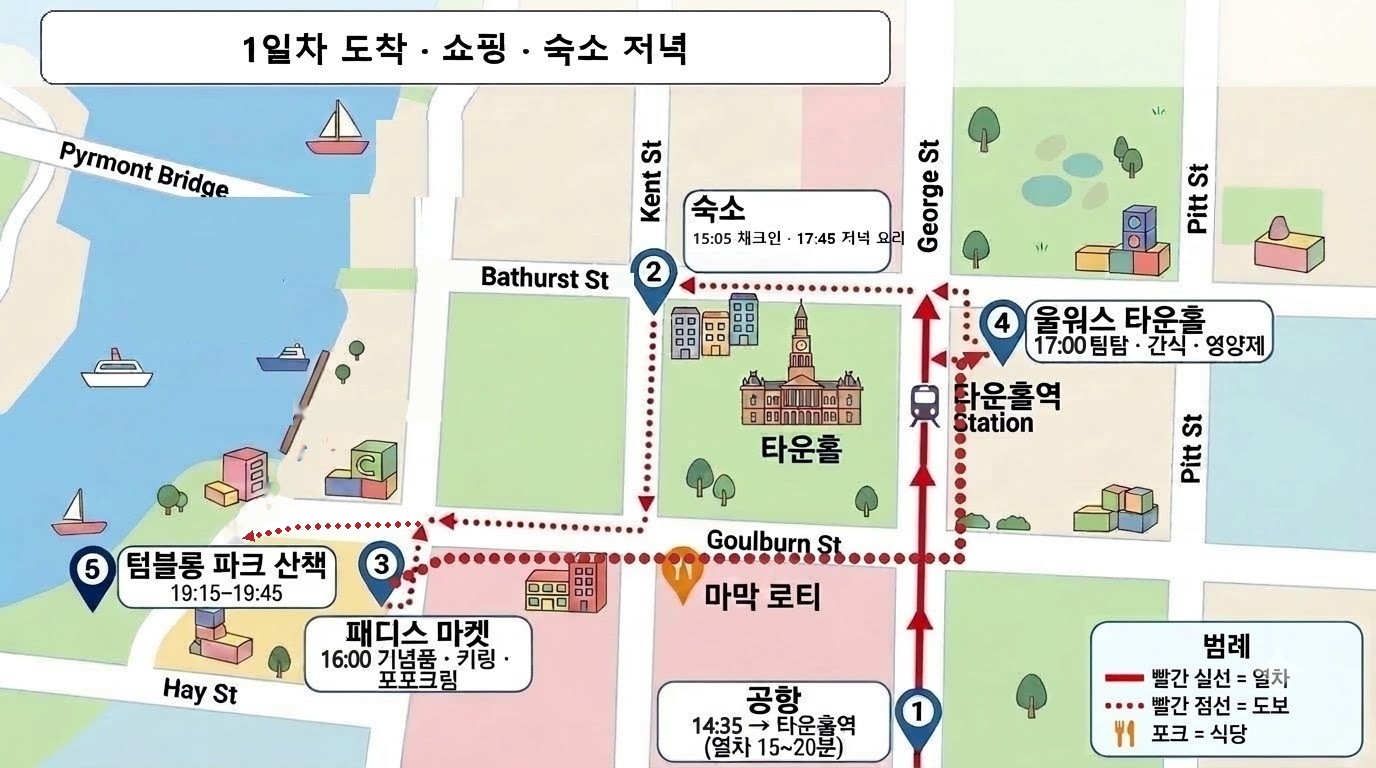
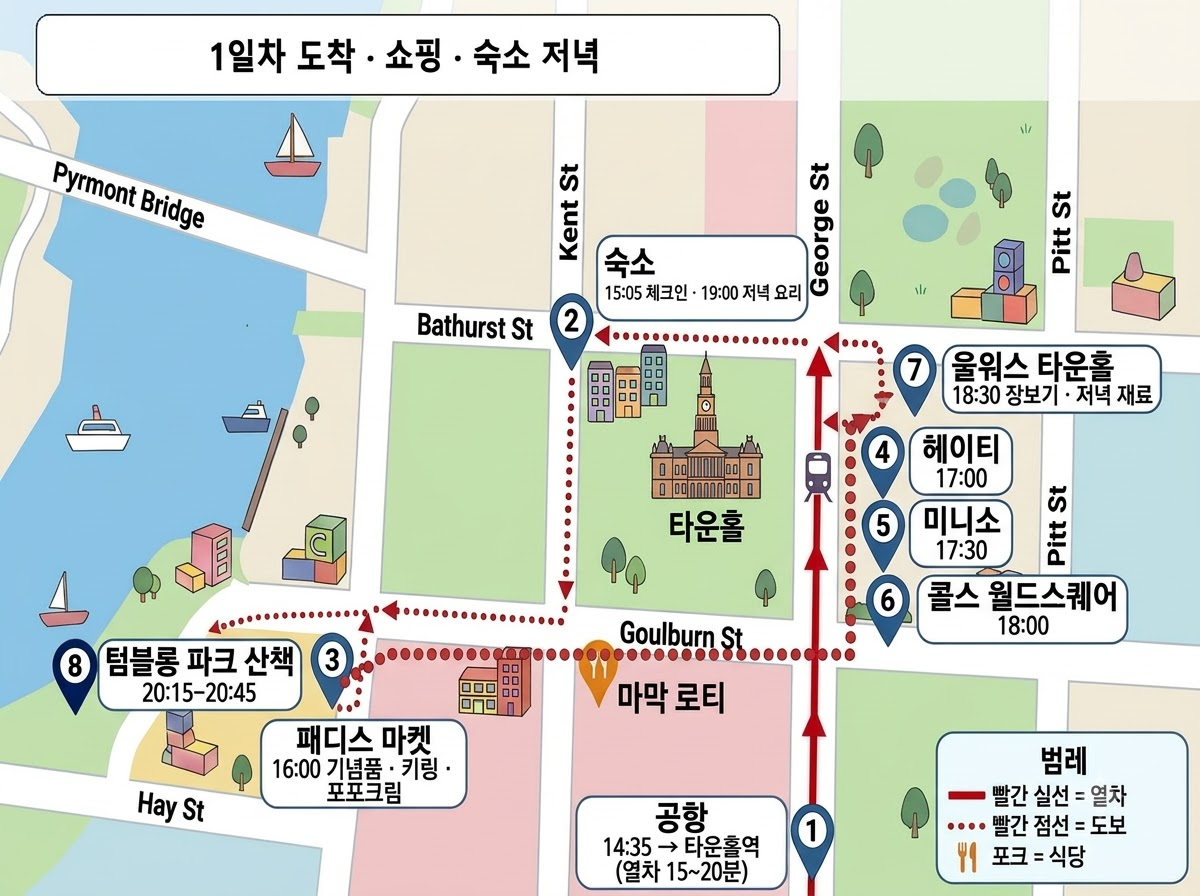
Day 1: Paddy's → HEYTEA → MINISO → Coles → Woolworths, map redrawn in Google Flow

diff --git a/src/data.js b/src/data.js
@@ -16,16 +16,19 @@ export const TEMPLATES = {
     tag: '도착·시내',
     title: '도착, 숙소 근처 쇼핑, 숙소에서 저녁 요리',
     summary:
-      '도착일에는 숙소에서 가까운 ③패디스 마켓과 ④마트만 들르고, 마트에서 장 본 재료로 숙소(스튜디오 주방)에서 저녁을 해 먹은 뒤 ⑤텀블롱 파크를 잠깐 걷고 일찍 쉽니다. 달링하버 야경은 3일차 불꽃놀이 때 봅니다. 패디스 마켓은 월·화에 쉽니다. 지도 번호: ①공항 ②숙소 ③패디스 마켓 ④울월스 ⑤텀블롱 파크.',
-    map: '/maps/day1.jpg?v=9',
-    mapAlt: '1일차 동선: 공항 → 숙소 → 패디스 마켓 → 울워스 타운홀(장보기) → 숙소 저녁 요리 → 텀블롱 파크 산책',
+      '도착일에는 숙소에서 가까운 ③패디스 마켓, ④헤이티·⑤미니소(조지 스트리트), ⑥콜스 월드스퀘어와 ⑦울월스 타운홀만 들르고, 마트에서 장 본 재료로 숙소(스튜디오 주방)에서 저녁을 해 먹은 뒤 ⑧텀블롱 파크를 잠깐 걷고 일찍 쉽니다. 달링하버 야경은 3일차 불꽃놀이 때 봅니다. 패디스 마켓은 월·화에 쉽니다. 지도 번호: ①공항 ②숙소 ③패디스 마켓 ④헤이티 ⑤미니소 ⑥콜스 ⑦울월스 ⑧텀블롱 파크.',
+    map: '/maps/day1.jpg?v=10',
+    mapAlt: '1일차 동선: 공항 → 숙소 → 패디스 마켓 → 헤이티 → 미니소 → 콜스 월드스퀘어 → 울월스 타운홀(장보기) → 숙소 저녁 요리 → 텀블롱 파크 산책',
     // airport and check-in rows are added in plan.js
     items: [
       ['16:00–17:00', '쇼핑 ③ 패디스 마켓', '도보 5–10분', '키링·마그넷·코알라 인형·포포크림. 18:00 마감', "Paddy's Markets Haymarket"],
-      ['17:00–17:45', '쇼핑 ④ 타운홀 울월스·콜스', '도보 약 10분', '팀탐·버섯과자·영양제(노란 세일 딱지). 저녁 요리 재료(고기·채소·빵·과일), 다음 날 아침거리도', 'Woolworths Town Hall'],
-      ['17:45–19:15', '숙소에서 저녁 요리·식사', '도보 약 10분', '스튜디오 주방 이용. 스테이크·파스타처럼 간단한 메뉴로'],
-      ['19:15–19:45', '숙소 근처 산책 ⑤ 텀블롱 파크(달링 스퀘어 옆 잔디 광장)', '도보 약 5분', '저녁엔 조명이 예쁨. 피곤하면 생략', 'Tumbalong Park'],
-      ['20:00', '숙소, 일찍 쉬기', '도보 약 5분', '다음 날 06:00 기상(새벽 러닝)'],
+      ['17:00–17:30', '④ 헤이티 조지 스트리트점 (569 George St)', '도보 약 10분', '11:00–22:00(금·토 23:00)', 'HEYTEA 569 George Street Sydney'],
+      ['17:30–18:00', '⑤ 미니소 조지 스트리트점 (630 George St)', '도보 약 5분', '호주 첫 산리오 테마 매장. 10:00–22:30', 'MINISO 630 George Street Sydney'],
+      ['18:00–18:30', '쇼핑 ⑥ 콜스 월드스퀘어 (650 George St)', '미니소 바로 옆', '팀탐·버섯과자·영양제 가격 비교(노란 세일 딱지). 06:00–24:00', 'Coles World Square'],
+      ['18:30–19:00', '쇼핑 ⑦ 울월스 타운홀', '도보 약 10분', '저녁 요리 재료(고기·채소·빵·과일), 다음 날 아침거리. 무거운 건 여기서. 06:00–24:00', 'Woolworths Town Hall'],
+      ['19:00–20:15', '숙소에서 저녁 요리·식사', '도보 약 5분', '스튜디오 주방 이용. 스테이크·파스타처럼 간단한 메뉴로'],
+      ['20:15–20:45', '숙소 근처 산책 ⑧ 텀블롱 파크(달링 스퀘어 옆 잔디 광장)', '도보 약 5분', '저녁엔 조명이 예쁨. 피곤하면 생략', 'Tumbalong Park'],
+      ['21:00', '숙소, 일찍 쉬기', '도보 약 5분', '다음 날 06:00 기상(새벽 러닝)'],
     ],
     rain: '패디스 마켓·마트·숙소 요리는 모두 실내라 그대로 갑니다. 산책만 빼세요.',
   },
